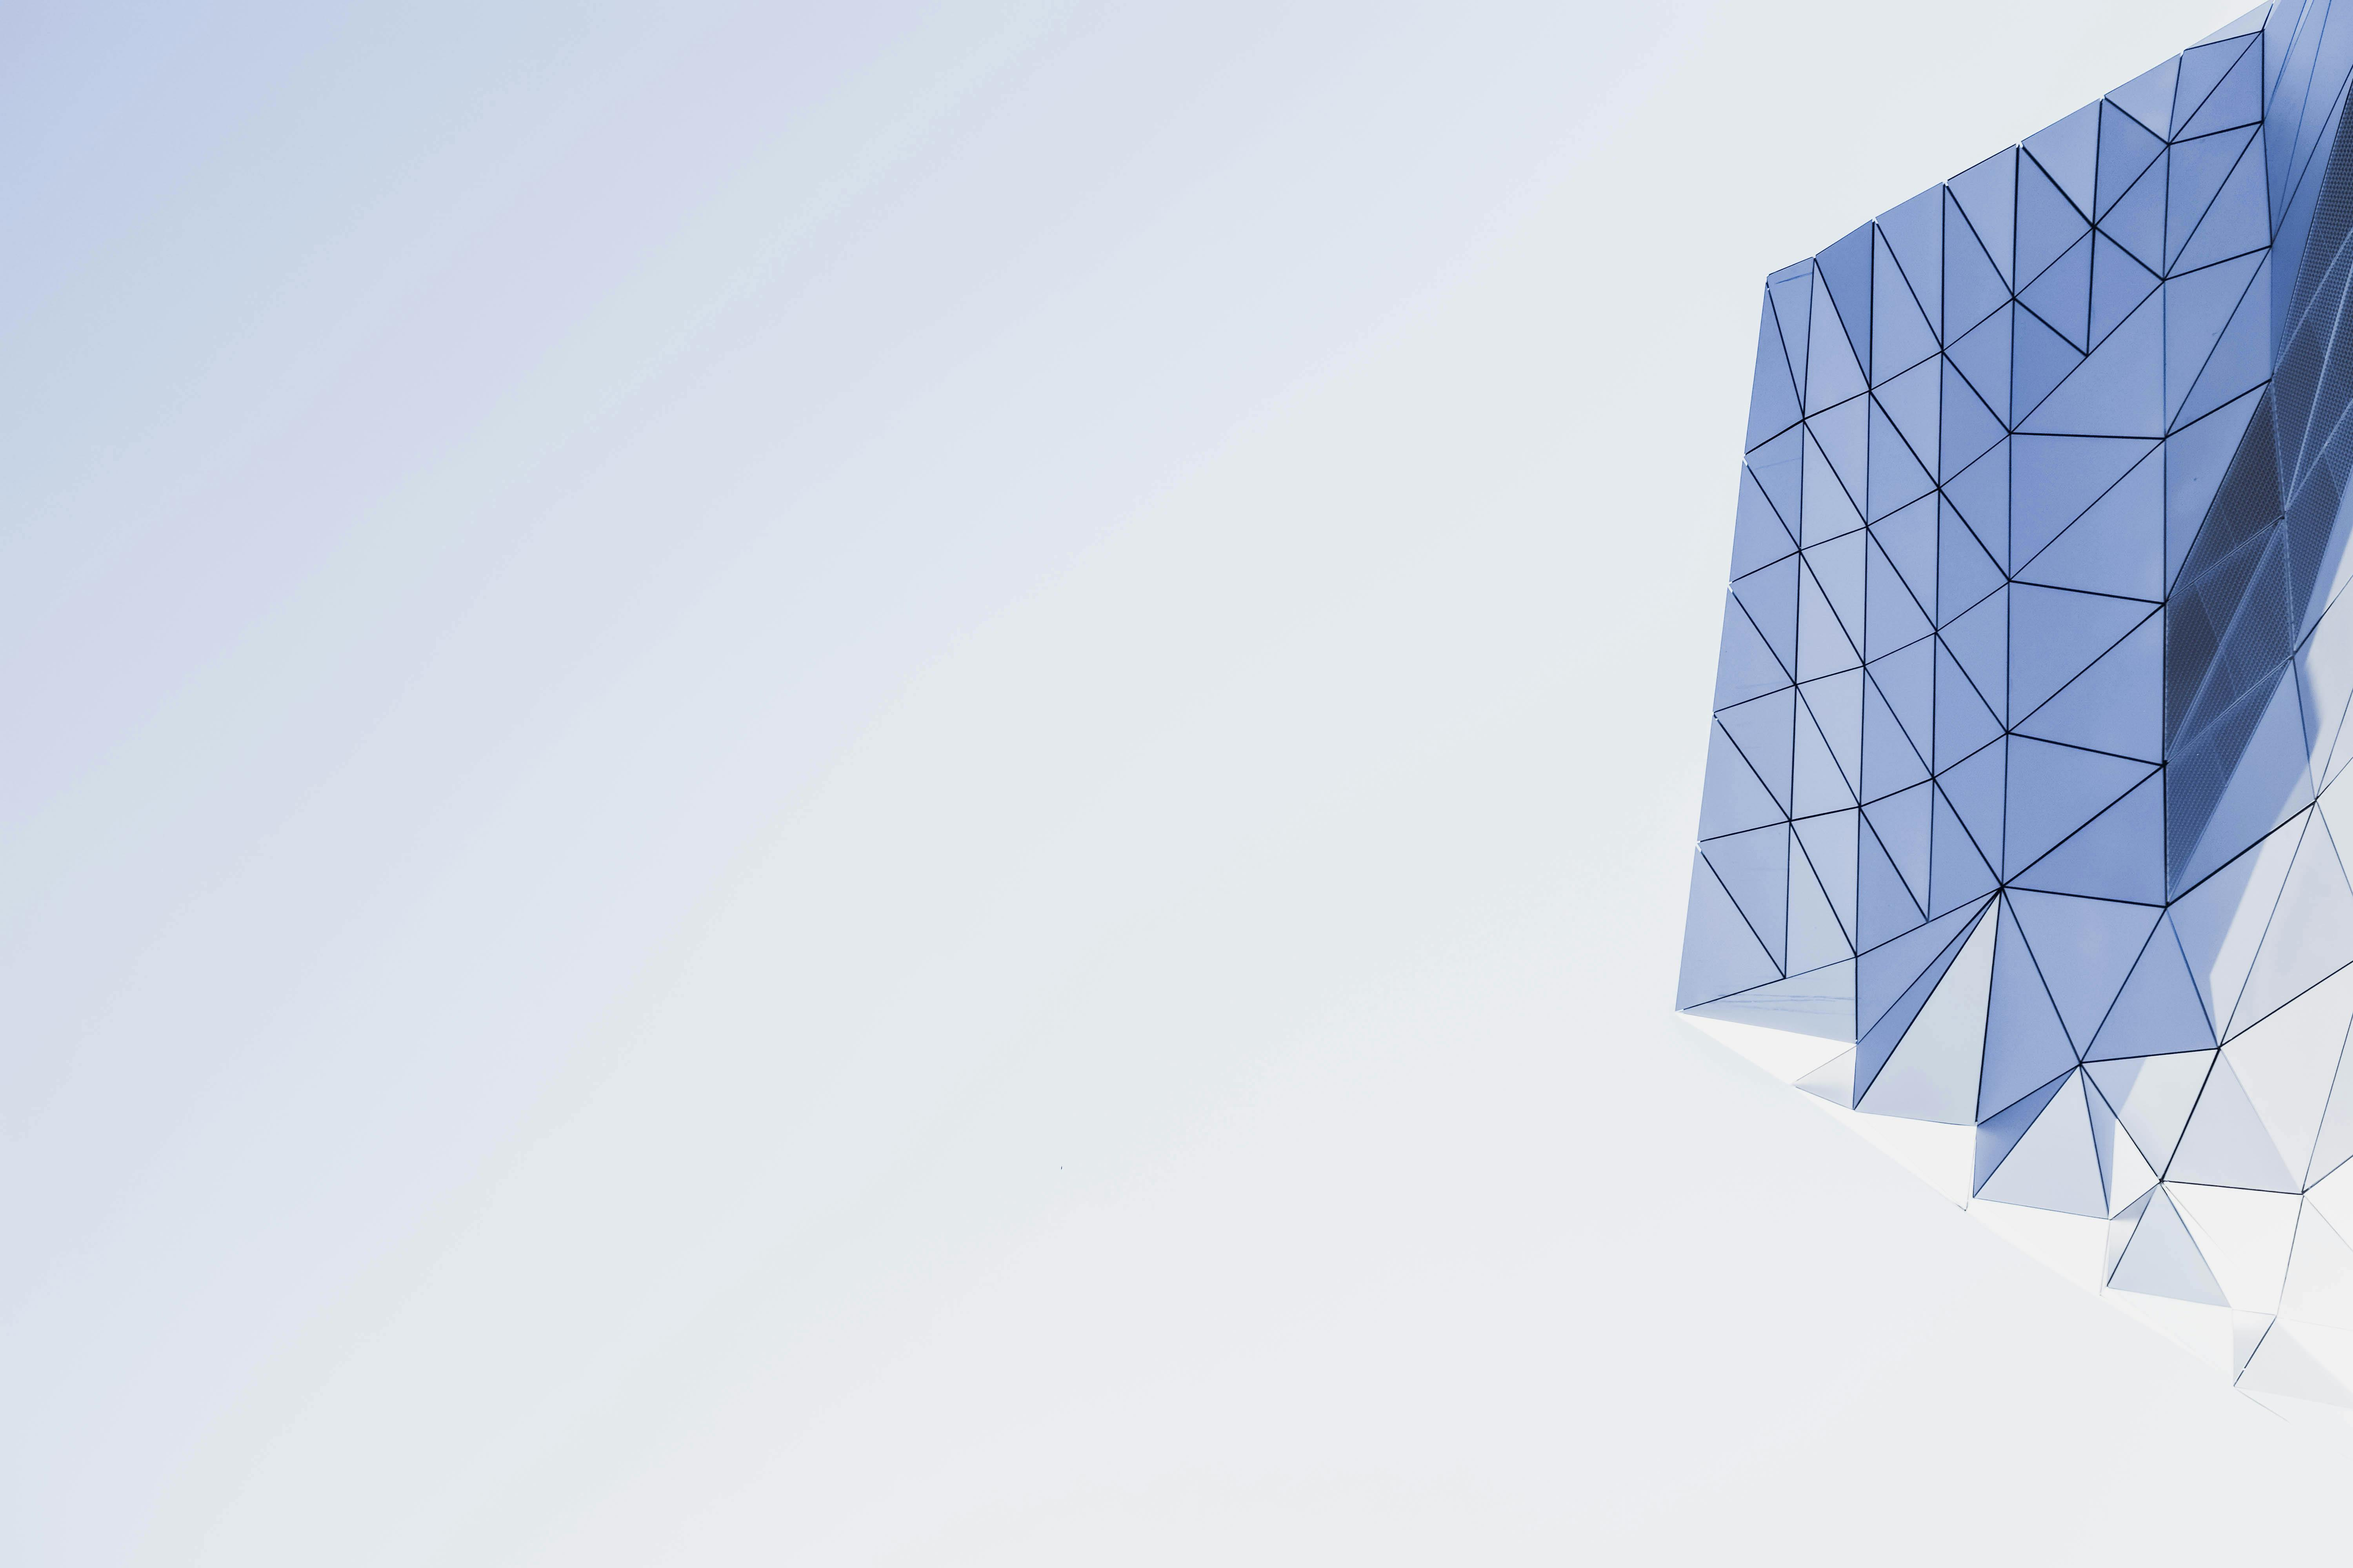
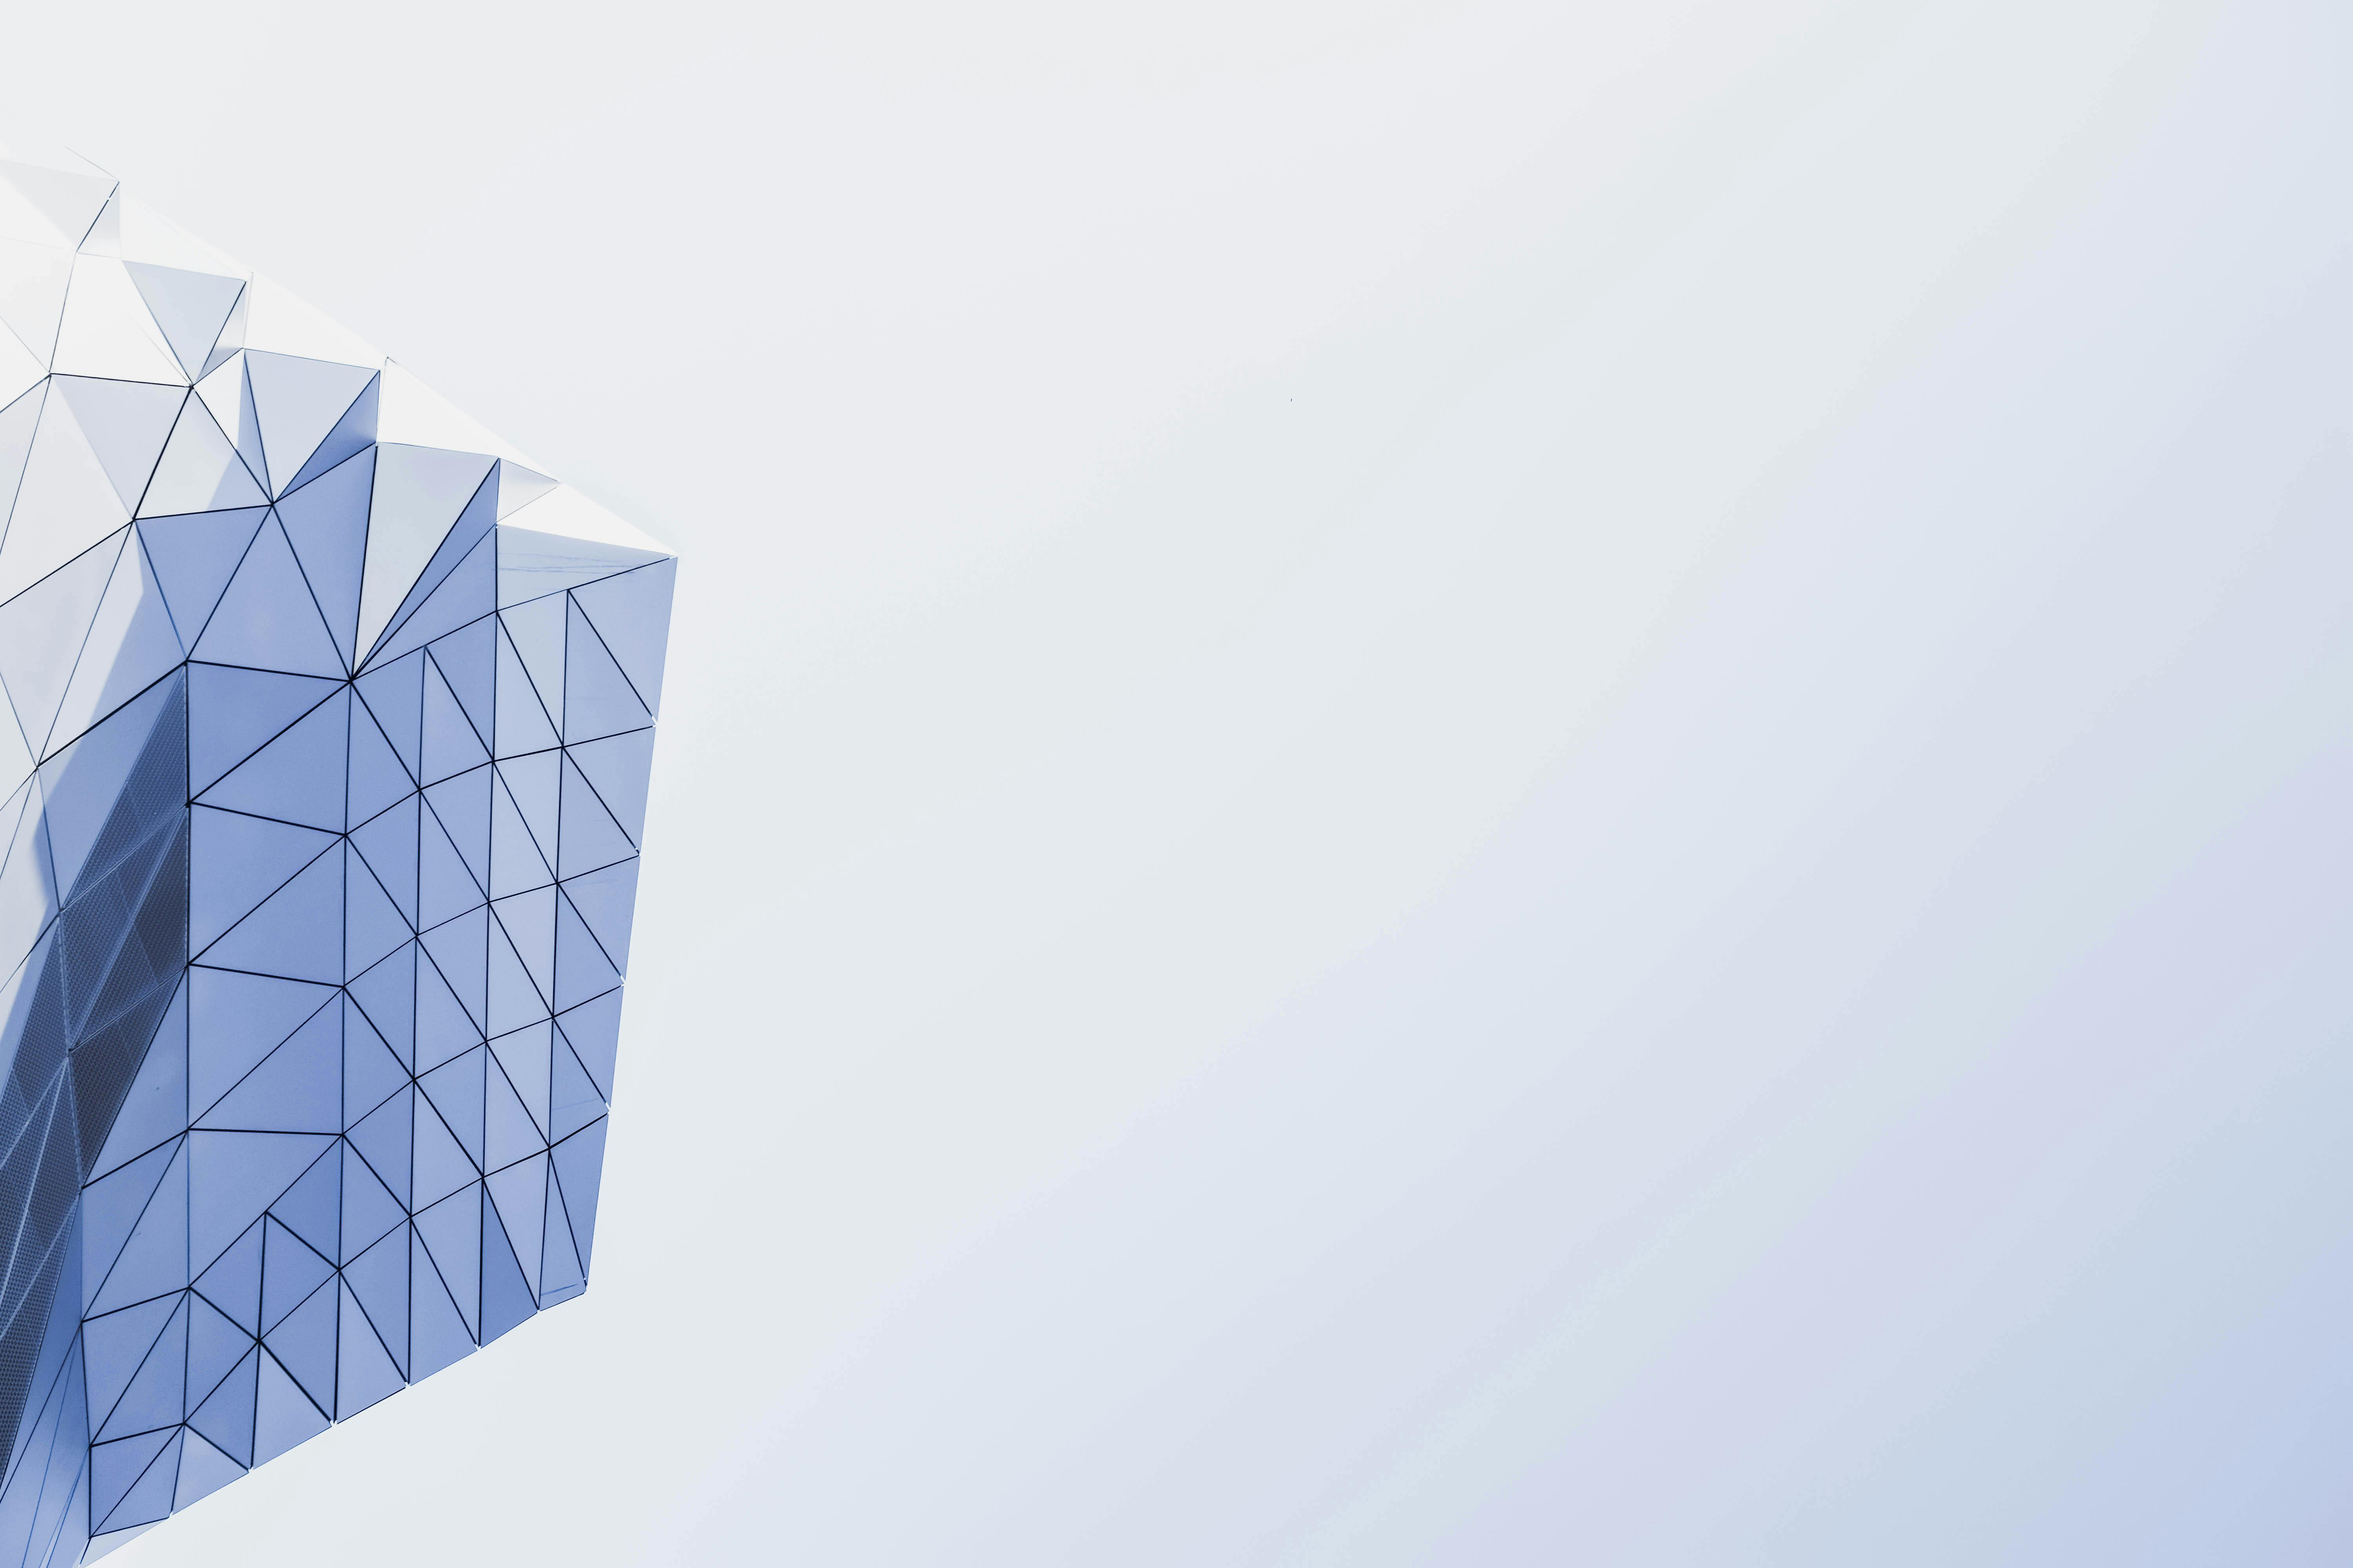
Final edits after feedback

diff --git a/style.css b/style.css
@@ -65,6 +65,11 @@ a.button.highlight {
   background-color: #399B67;
   padding: 1rem;
   color: white;
+  font-size: 2rem;
+}
+
+strong.highlight {
+  color: #399B67;
 }
 
 button:hover, a.button:hover {
@@ -137,42 +142,67 @@ article div img {
   display: block;
 }
 
-.class article.abovefold {
+.heading {
+  text-align: center;
+}
+
+.heading+* {
+  border-top: none;
+}
+
+.class article.details {
   display: block;
   position: relative;
 }
 
-.class .abovefold section {
+.class .details section {
   position: relative;
   z-index: 1;
-  padding-right: 37%;
+  padding-left: 37%;
 }
 
-.class .abovefold div {
+.class .details div {
   position: absolute;
   top: 0;
-  right: 0;
+  left: 0;
   height: 100%;
   border-left: 0;
   display: block;
-  mask-image: linear-gradient(to left, rgba(0,0,0,1), rgba(0,0,0,0));
+  mask-image: linear-gradient(to right, rgba(0,0,0,1), rgba(0,0,0,0));
 }
 
-.class .abovefold div img {
+.class .details div img {
   height: 100%;
 }
 
-article.details {
-  grid-template-columns: 1fr 2fr;
+.class article.abovefold {
+  grid-template-columns: 3fr 2fr;
+  align-items:center;
 }
 
 .center {
   text-align: center;
 }
 
-article.details>div>img {
+article.abovefold>div>img {
   height: 100%;
   object-fit: cover;
+}
+
+.class article.abovefold>div {
+  grid-column-start: 2;
+}
+
+.class article.abovefold>div>img {
+  border: 1px solid #d0c0b0;
+  margin: 1em auto;
+  display: block;
+  width: 90%;
+  height: 50%;
+}
+
+.class article.abovefold>section {
+  grid-row-start: 1;
 }
 
 article>img {
@@ -193,8 +223,12 @@ article>img {
 }
 
 @media (max-width: 850px) {
-  article.abovefold, .class article.abovefold, article.details {
+  article.abovefold, .class article.details, .class article.abovefold {
     grid-template-columns: 2fr;
+  }
+
+  .class article.abovefold>div {
+    grid-column-start: 1;
   }
 
   section {
@@ -205,8 +239,16 @@ article>img {
      padding: 1em;
    }
 
-   article>div {
+   article>div, .class .details div  {
      display: none;
+   }
+
+   .class article.abovefold>div {
+     display: block;
+   }
+
+   .class article.abovefold>div>img {
+     width: 50%;
    }
 }
 
@@ -266,11 +308,13 @@ form>label {
 button, a.button {
   border: none;
   color: #ffffff;
-  margin: 1em 0 0 auto;
+  margin: 1em auto 0 auto;
   padding: .75em;
   text-shadow: 1px 0px white;
   cursor: pointer;
   background-color: #399B67;
+  display: block;
+  width: fit-content;
 }
 
 button:hover, button:focus, a.button:hover, a.button:focus {

diff --git a/class.html b/class.html
@@ -17,20 +17,23 @@
       </nav>
     </header>
     <main class="class">
+      <article class="heading">
+        <h1>Technical interview prep class</h1>
+      </article>
       <article class="abovefold">
+      <div>
+        <img src="teacherprof.png" >
+      </div>
         <section>
-          <h1>Technical interview prep class</h1>
-          <h2>Enrollment closes Thursday, May 2.</h2>
+          <h2>Enrollment closes Thursday, May 2</h2>
           <h3>Timeline: Two weeks (May 6-17)</h3>
           <h3>Time commitment:</h3>
             <p>New material <strong>10:30am-11:30am ET</strong> Monday-Friday with an hour or two of practice afterwards</p>
+          <h2>Price: <del>$1199</del> <strong class="highlight">$599</strong> through April 30</h2>
           <h3>Improve your technical interview skills to land your next job</h3>
           <h2><a href="https://buy.stripe.com/4gwg155JWb5IfxC9AA" class="button highlight">Enroll now</a></h2>
           <p><strong>This course will cover data structures and algorithms knowledge required to pass the interviews for most software jobs.</strong>  The pacing involves just a few hours a day, designed for people who are job searching at the same time.</p>
         </section>
-        <div>
-          <img src="pexels-adrien-olichon-1257089-3137055.jpg" >
-        </div>
       </article>
       <article>
         <section><p>
@@ -40,7 +43,7 @@
       </article>
       <article class="details">
         <div>
-          <img src="pexels-divinetechygirl-1181311.jpg" >
+          <img src="pexels-adrien-olichon-1257089-3137055.jpg" >
         </div>
         <section>
           <h2>What you'll learn:</h2><ul>
